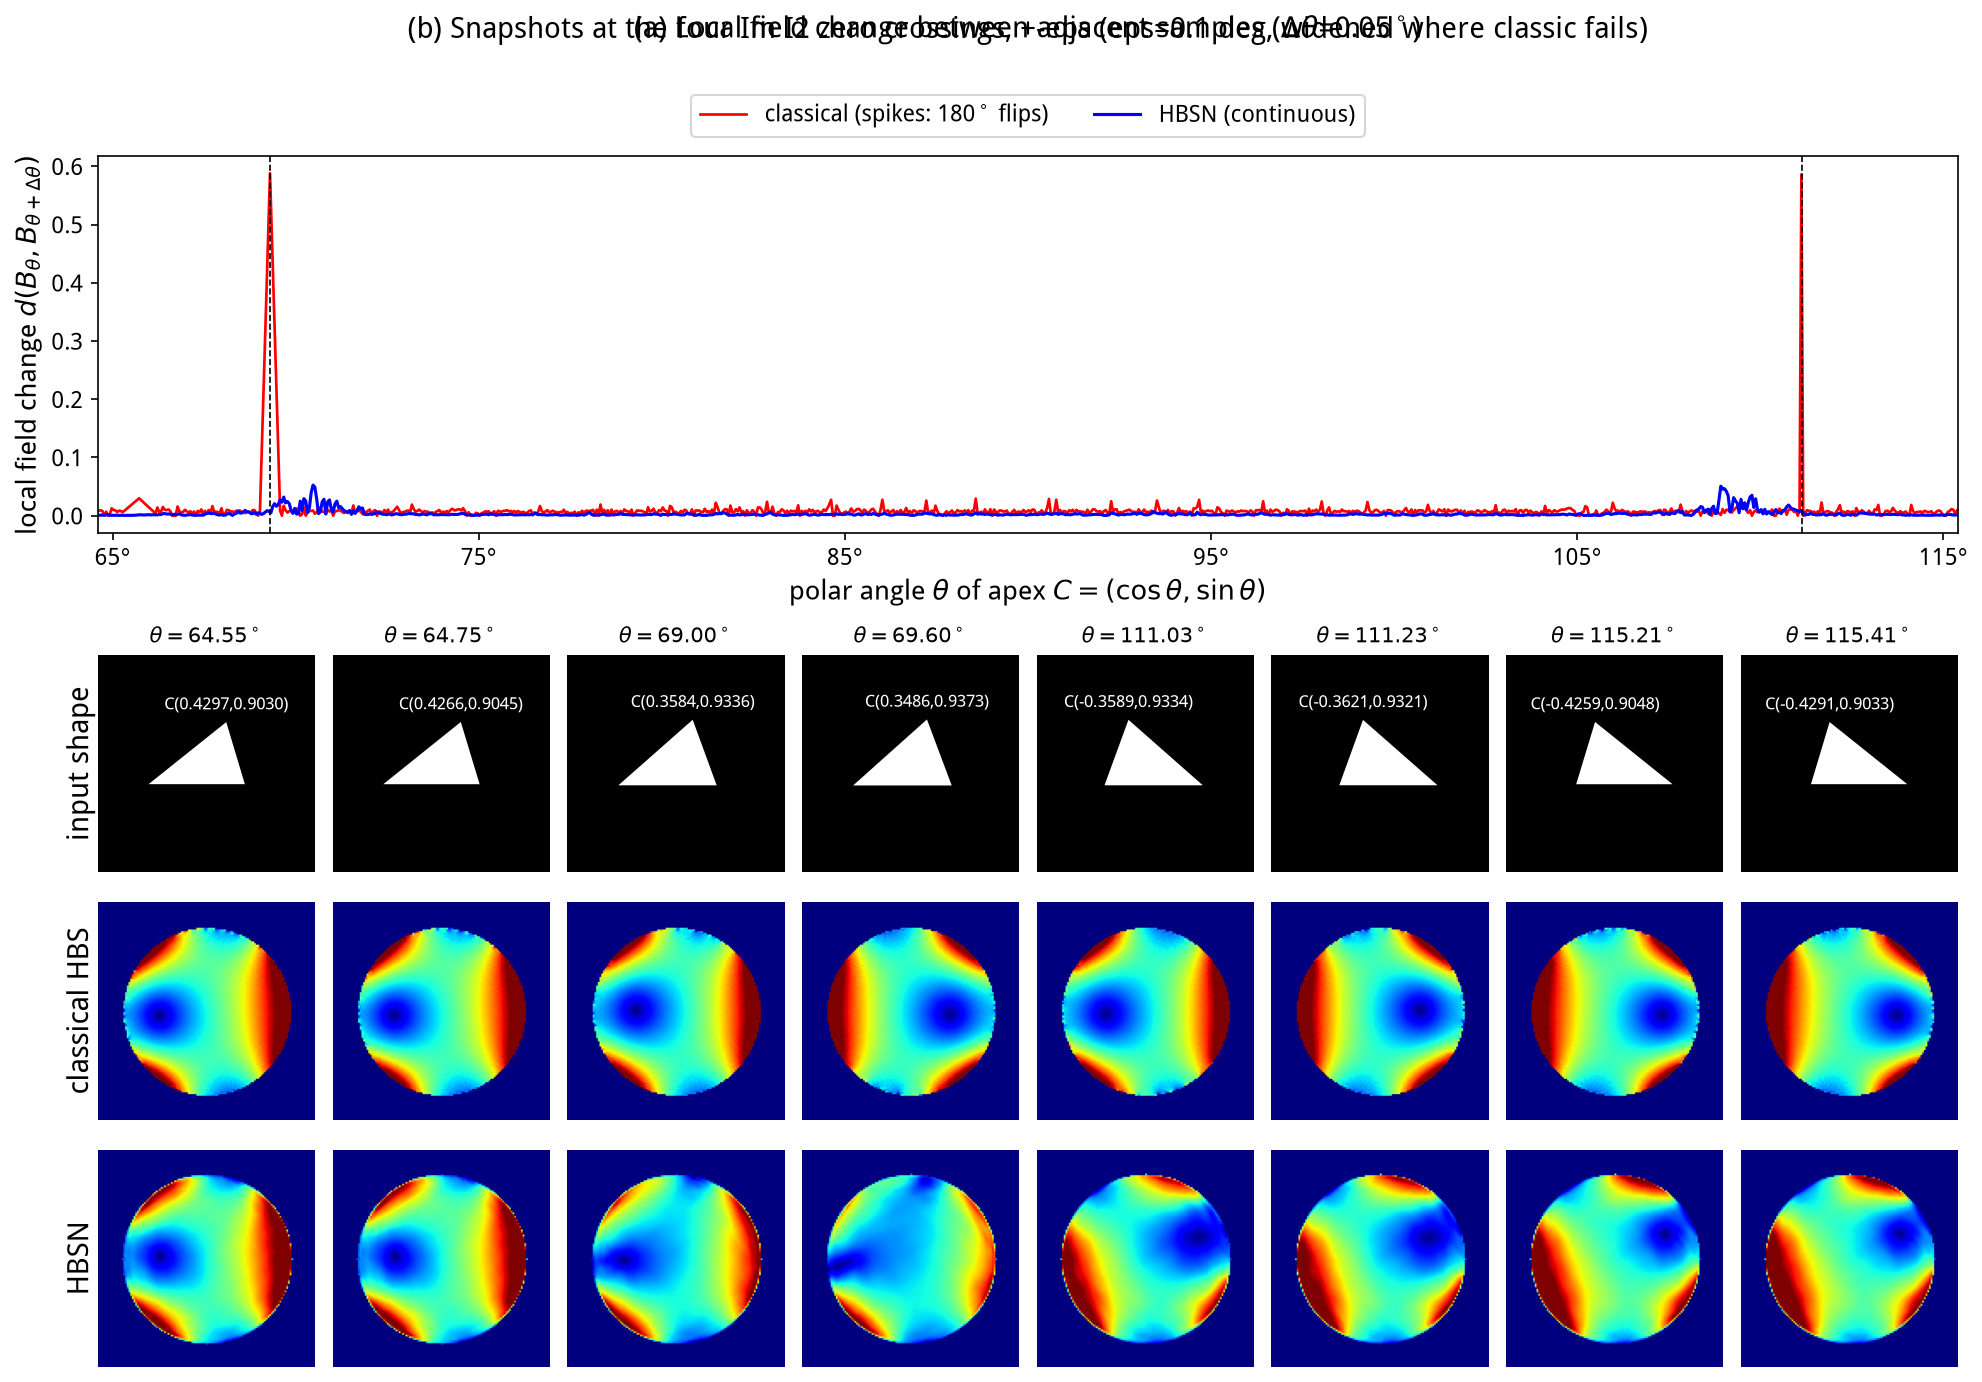
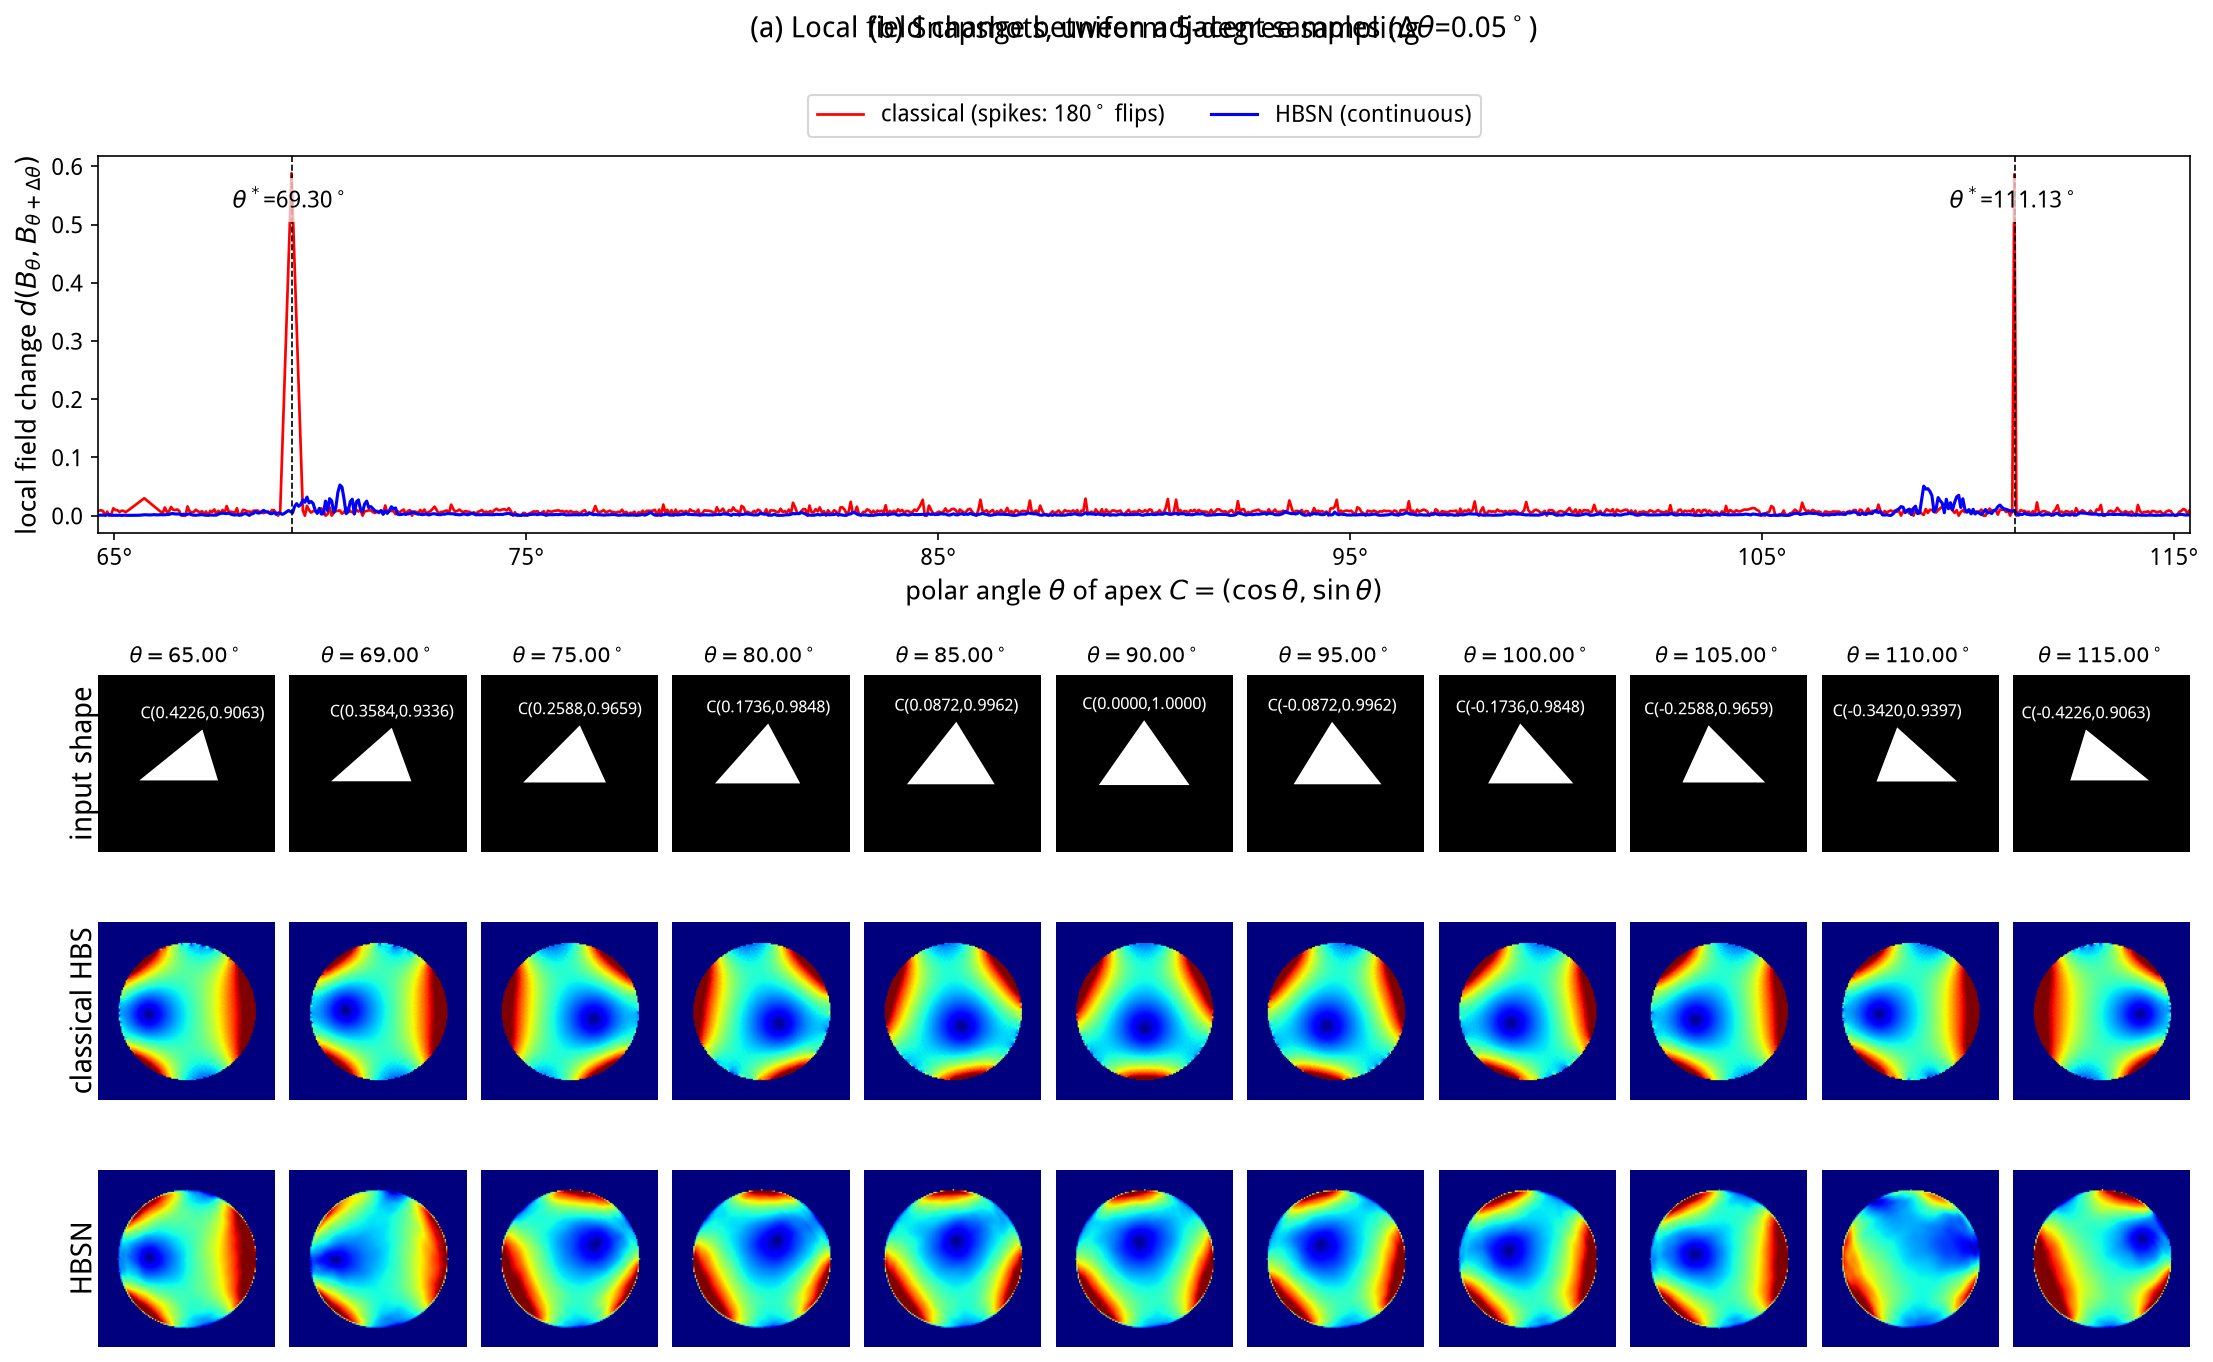
feat: redesign deformation_wide snapshots (uniform 5-deg sampling)
- snapshot columns: uniform 65..115 every 5 deg (11 cols) per review -
  no clustering at flips; the 70-deg column nudges to 69 (HBSN
  transition zone ~[70.2,70.9] +/-0.4 avoidance)
- HBSN transition cores (~70.5/~109) not sampled; flip positions kept
  precise and marked in the curve panel (dashed vlines + theta* labels
  at 69.30/111.13)
- classic flip detection unchanged (adjacent-d spikes at 69.30/111.12,
  dense 0.05-deg internals preserved for localization)

diff --git a/scripts/exp/e1_deform_wide.py b/scripts/exp/e1_deform_wide.py
@@ -103,35 +103,40 @@ def register_phi(f_a, f_b, z, mask) -> float:
 
 
 def snapshot_thetas(z, mask) -> list[float]:
-    """8 snapshot thetas: 4 crossings x +-eps, widen where classic fails."""
+    """Uniform 5-deg grid over the interval; nudge if needed.
+
+    A column is nudged +-0.5 deg if it falls inside an HBSN transition
+    core (bumps ~[70.2,70.9]/~[108.7,109.3]) +-0.4 deg, within 0.1 deg
+    of a classical flip, or if the classic field fails there.
+    """
+    ths_u = [65.0 + 5.0 * k for k in range(11)]
+    bumps = [(70.2, 70.9), (108.7, 109.3)]
     cols = []
-    for c in CROSSINGS:
-        for sign in [-1, +1]:
-            off = None
-            for cand in SNAP_OFFSETS:
-                th = c + sign * cand
-                if (
-                    classic_or_none(
-                        shapes.triangle(t=th / DEG_PER_T, base=BASE)
-                    )
-                    is not None
-                ):
-                    off = cand
-                    break
-            if off is None:
-                raise RuntimeError(f"no finite classic field near {c}")
-            cols.append(c + sign * off)
+    for th in ths_u:
+        for cand in [th, th - 0.5, th + 0.5, th - 1.0, th + 1.0]:
+            ok = all(not (lo - 0.4 <= cand <= hi + 0.4) for lo, hi in bumps)
+            ok = ok and all(abs(cand - f) > 0.1 for f in FLIPS)
+            if ok:
+                cf = classic_or_none(
+                    shapes.triangle(t=cand / DEG_PER_T, base=BASE)
+                )
+                ok = cf is not None
+            if ok:
+                cols.append(cand)
+                break
+        else:
+            raise RuntimeError(f"no valid snapshot column near {th}")
     return cols
 
 
 def plot_figure(ths, xs_c, ds_c, xs_h, ds_h, cols, net, z, mask) -> None:
     """Top: adjacent-sample d curves; bottom: 3x8 snapshot grid."""
-    fig = plt.figure(figsize=(16, 10.5))
+    fig = plt.figure(figsize=(18, 10.5))
     gs = fig.add_gridspec(2, 1, height_ratios=[1, 1.9], hspace=0.22)
     ax_a = fig.add_subplot(gs[0])
-    gs_b = gs[1].subgridspec(3, 8, hspace=0.12, wspace=0.08)
+    gs_b = gs[1].subgridspec(3, 11, hspace=0.12, wspace=0.08)
     axs = np.array(
-        [[fig.add_subplot(gs_b[r, c]) for c in range(8)] for r in range(3)]
+        [[fig.add_subplot(gs_b[r, c]) for c in range(11)] for r in range(3)]
     )
     ax_a.plot(
         xs_c,
@@ -149,6 +154,17 @@ def plot_figure(ths, xs_c, ds_c, xs_h, ds_h, cols, net, z, mask) -> None:
     )
     for f in FLIPS:
         ax_a.axvline(f, color="k", ls="--", lw=0.8)
+        ax_a.text(
+            f,
+            0.92,
+            rf"$\theta^*$={f:.2f}$^\circ$",
+            transform=ax_a.get_xaxis_transform(),
+            ha="center",
+            va="top",
+            fontsize=FONTSIZE - 2,
+            color="k",
+            bbox={"facecolor": "white", "alpha": 0.7, "edgecolor": "none"},
+        )
     ax_a.set_xlim(TH_LO, TH_HI)
     ax_a.set_xticks([65, 75, 85, 95, 105, 115])
     ax_a.set_xticklabels([f"{v}°" for v in [65, 75, 85, 95, 105, 115]])
@@ -229,7 +245,7 @@ def plot_figure(ths, xs_c, ds_c, xs_h, ds_h, cols, net, z, mask) -> None:
     fig.canvas.draw()
     pos_a = ax_a.get_position()
     pos_l = axs[0, 0].get_position()
-    pos_r = axs[0, 7].get_position()
+    pos_r = axs[0, 10].get_position()
     fig.text(
         (pos_a.x0 + pos_a.x1) / 2,
         0.955,
@@ -241,8 +257,7 @@ def plot_figure(ths, xs_c, ds_c, xs_h, ds_h, cols, net, z, mask) -> None:
     fig.text(
         (pos_l.x0 + pos_r.x1) / 2,
         0.955,
-        "(b) Snapshots at the four Im I2 zero crossings, +-eps"
-        f" (eps={EPS:g} deg, widened where classic fails)",
+        "(b) Snapshots, uniform 5-degree sampling",
         ha="center",
         fontsize=FONTSIZE + 1,
     )
